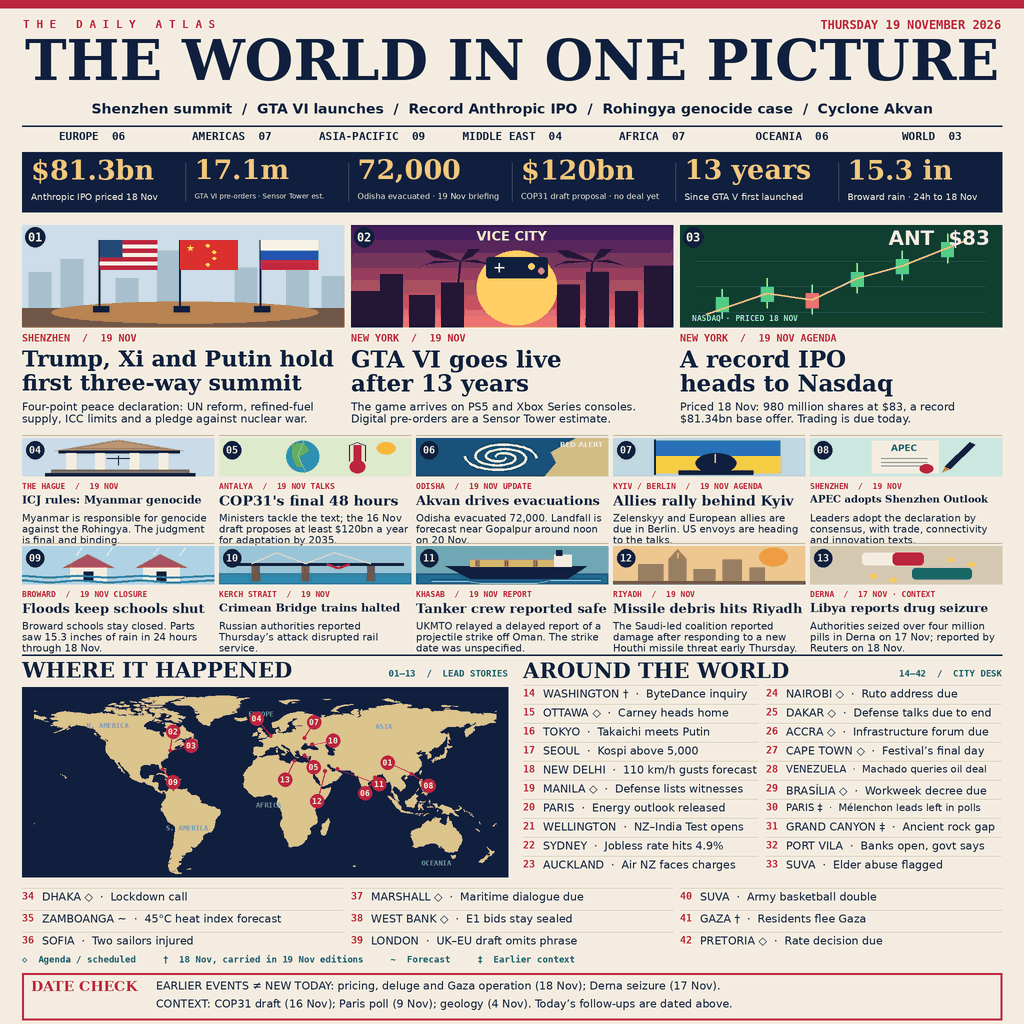
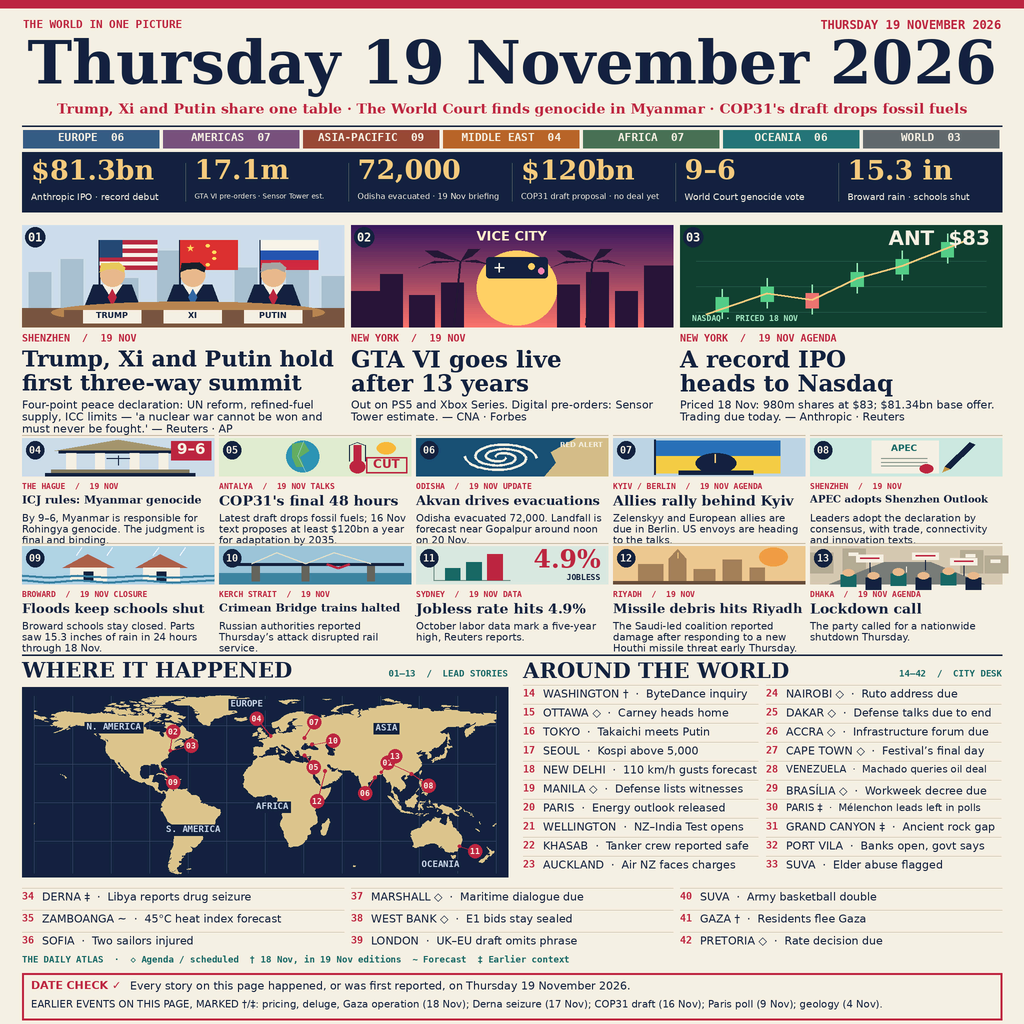
Finish R4 news page with compact RGB render

diff --git a/render.py b/render.py
@@ -109,7 +109,6 @@ def sketch(n, x, y, w, h):
         for a,b in [(2,22),(12,16),(29,25),(42,12),(66,20),(82,10),(93,24)]:
             rect(a,b,7,42-b,"#a8bfce")
         rect(0,39,100,9,"#79553e")
-        oval(9,36,92,46,"#b88550")
         for k,a in enumerate((24,49,74)):
             path([(a,39),(a,7)],INK,2)
             rect(a,7,18,14,"#f7f3e9")
@@ -124,6 +123,21 @@ def sketch(n, x, y, w, h):
             else:
                 rect(a,12,18,4.5,"#2354b0"); rect(a,16.5,18,4.5,"#ce293e")
             rect(a-2,38,5,3,INK)
+        # Draw the seated figures before the tabletop and nameplates.
+        for a,hair,tie in ((28,"#e8c95a",RED),
+                           (53,"#18202c","#3268a4"),
+                           (78,"#a5a5a2",RED)):
+            poly([(a-6,28),(a+6,28),(a+9,40),(a-9,40)],INK)
+            poly([(a-3,28),(a+3,28),(a,35)],PAPER)
+            poly([(a,30),(a+1.4,34),(a,38),(a-1.4,34)],tie)
+            oval(a-3.8,18,a+3.8,29,"#e8b98a")
+            poly([(a-4,22),(a-3.5,18),(a+2,17.5),(a+4,20),(a+3.5,22),
+                  (a+1,20.5),(a-2,21)],hair)
+        oval(9,36,94,46,"#b88550")
+        rect(13,40,77,8,"#79553e")
+        for a,name in ((28,"TRUMP"),(53,"XI"),(78,"PUTIN")):
+            rect(a-9,40,18,6,PAPER)
+            label(x+a*sx,y+41*sy,name,"b",8,INK,"mt")
     elif n == 2:
         for b in range(48):
             t=b/47
@@ -155,6 +169,8 @@ def sketch(n, x, y, w, h):
         for a in (23,38,56,71): rect(a,19,5,21,PAPER)
         path([(50,22),(50,34)],INK,1.2); path([(44,25),(56,25)],INK,1.2)
         rect(15,40,72,4,"#80785c"); rect(12,44,78,4,INK)
+        box(x+w-43,y+3,40,19,RED)
+        label(x+w-23,y+5,"9–6","b",15,PAPER,"mt")
     elif n == 5:
         oval(35,3,52,43,"#2d92b2")
         poly([(38,7),(44,5),(47,16),(42,24),(44,36),(40,36),(38,24)],"#62ad61")
@@ -162,6 +178,8 @@ def sketch(n, x, y, w, h):
         oval(68,28,76,44,RED); rect(70,9,4,26,RED)
         path([(68,29),(68,9),(72,5),(76,9),(76,29)],INK,1)
         oval(82,5,92,20,"#f7b839")
+        pen.rectangle(px(x+w-45,y+19,x+w-4,y+35),outline=RED,width=3)
+        label(x+w-24.5,y+21,"CUT","b",12,RED,"mt")
     elif n == 6:
         poly([(83,0),(100,0),(100,48),(67,48),(73,31),(70,18)],"#d3bd86")
         for phase in (0,math.pi):
@@ -194,12 +212,13 @@ def sketch(n, x, y, w, h):
         path([(17,22),(30,8),(45,22),(60,8),(79,22)],"#e5dfc8",1.5)
         path([(56,23),(62,28),(68,23)],RED,2.7)
     elif n == 11:
-        rect(0,35,100,13,"#246481")
-        poly([(15,25),(89,25),(79,41),(28,41)],INK)
-        rect(28,17,44,9,"#d6b66d"); rect(72,11,9,15,PAPER)
-        rect(73,5,3,7,INK)
-        for a in (31,46,61): rect(a,18,2,7,"#8e7246")
-        path([(8,44),(27,44),(33,47),(63,47),(70,43),(96,43)],"#afd6de",1)
+        box(x,y,w,h,"#d9e7df")
+        path([(9,7),(9,43),(49,43)],"#6e8e84",.8)
+        # These bars are symbolic; their heights do not encode a time series.
+        for a,b in ((15,28),(26,20),(37,10)):
+            rect(a,b,8,43-b,GREEN if a!=37 else RED)
+        label(x+w-7,y+3,"4.9%","h",25,RED,"rt")
+        label(x+w-8,y+h-4,"JOBLESS","m",8,INK,"rb")
     elif n == 12:
         oval(76,2,91,25,"#ef9d42")
         for a,b,ww in [(13,23,13),(29,16,9),(42,29,11),(57,17,10),(71,27,8)]: rect(a,b,ww,44-b,"#a27f59")
@@ -207,10 +226,18 @@ def sketch(n, x, y, w, h):
         path([(33.5,8),(33.5,15)],GOLD,1)
         rect(0,44,100,4,"#654c39")
     elif n == 13:
-        pen.rounded_rectangle(px(x+27*sx,y+8*sy,x+59*sx,y+24*sy),radius=8,fill=PAPER)
-        pen.rounded_rectangle(px(x+43*sx,y+8*sy,x+59*sx,y+24*sy),radius=8,fill=RED)
-        pen.rounded_rectangle(px(x+53*sx,y+28*sy,x+84*sx,y+42*sy),radius=7,fill=GREEN)
-        for a,b in ((31,35),(41,40),(71,14),(82,20)): oval(a,b,a+4,b+6,"#f5d16e")
+        for a,b in ((0,8),(17,3),(78,5),(91,12)):
+            rect(a,b,12,34-b,"#b4aa93")
+            rect(a+3,b+5,5,4,PAPER)
+        poly([(38,20),(63,20),(91,48),(10,48)],"#777b77")
+        path([(50,26),(50,33)],PAPER,1)
+        for a,b in ((20,31),(33,35),(46,30),(59,35),(72,29),(85,35)):
+            rect(a-4,b+5,8,15,INK if a%2 else GREEN)
+            oval(a-3,b-2,a+3,b+7,"#e8b98a")
+        for a,b in ((31,11),(60,8),(80,15)):
+            path([(a,b+5),(a,b+22)],INK,1)
+            rect(a-7,b,14,9,PAPER)
+            path([(a-5,b+4),(a+5,b+4)],RED,1.5)
 
 
 # Coordinates are followed by the callout's offset from the plotted point.
@@ -218,8 +245,8 @@ PLACES = [
     (114.06,22.54,-24,-11), (-74.01,40.71,3,-19), (-74.01,40.71,21,-5),
     (4.30,52.08,-14,-17), (30.71,36.90,9,12), (85.53,19.81,-10,16),
     (30.52,50.45,10,-16), (114.06,22.54,17,12), (-80.14,26.12,11,13),
-    (36.5,45.3,21,-4), (56.25,26.2,42,15), (46.68,24.71,-8,30),
-    (22.64,32.76,-9,19),
+    (36.5,45.3,21,-4), (151.21,-33.87,16,5), (46.68,24.71,-8,30),
+    (90.41,23.81,14,-16),
 ]
 
 
@@ -229,6 +256,11 @@ def world_map(x, y):
 
     def project(lon, lat):
         return (x+12+(lon+180)*scale, y+9+(83-lat)*scale)
+
+    for lon in range(-180,181,30):
+        stroke([project(lon,83),project(lon,-55)],"#3a4a6b",.5)
+    for lat in range(-30,61,30):
+        stroke([project(-180,lat),project(180,lat)],"#3a4a6b",.5)
 
     with urlopen(BASE + "ne_110m_land.geojson", timeout=20) as reply:
         land = reply.read()
@@ -246,9 +278,11 @@ def world_map(x, y):
             for boundary, color in [(outer, 1), *((hole, 0) for hole in holes)]:
                 geometry_pen.polygon([px(*project(*p)) for p in boundary], fill=color)
     canvas.paste("#dcc58d", (0,0), mask)
-    for lon, lat, name in [(-139,62,"N. AMERICA"),(-77,-18,"S. AMERICA"),(-13,71,"EUROPE"),
+    for lon, lat, name in [(-139,62,"N. AMERICA"),(-77,-18,"S. AMERICA"),(-27,80,"EUROPE"),
                            (-7,0,"AFRICA"),(86,61,"ASIA"),(122,-45,"OCEANIA")]:
-        label(*project(lon,lat), name, "m", 7, "#7497b6")
+        a,b = project(lon,lat)
+        box(a-2,b-1,measure(name,"m",9)+4,11,INK)
+        label(a,b,name,"m",9,"#c9d6e8")
     for n, (lon, lat, dx, dy) in enumerate(PLACES, 1):
         a, b = project(lon,lat)
         stroke([(a,b),(a+dx,b+dy)], RED, .8)
@@ -258,12 +292,12 @@ def world_map(x, y):
 
 
 FIGURES = (
-    ("$81.3bn","Anthropic IPO priced 18 Nov"),
+    ("$81.3bn","Anthropic IPO · record debut"),
     ("17.1m","GTA VI pre-orders · Sensor Tower est."),
     ("72,000","Odisha evacuated · 19 Nov briefing"),
     ("$120bn","COP31 draft proposal · no deal yet"),
-    ("13 years","Since GTA V first launched"),
-    ("15.3 in","Broward rain · 24h to 18 Nov"),
+    ("9–6","World Court genocide vote"),
+    ("15.3 in","Broward rain · schools shut"),
 )
 
 
@@ -271,14 +305,16 @@ def front_page():
     rows = items()
     counts = Counter(row[1] for row in rows)
     box(0,0,1024,8,RED)
-    label(23,20,"T H E   D A I L Y   A T L A S","m",11,RED)
+    label(23,20,"THE WORLD IN ONE PICTURE","m",11,RED)
     label(1001,20,"THURSDAY 19 NOVEMBER 2026","m",12,RED,"rt")
-    label(512,38,"THE WORLD IN ONE PICTURE","h",61,INK,"mt",978)
-    label(512,103,"Shenzhen summit  /  GTA VI launches  /  Record Anthropic IPO  /  Rohingya genocide case  /  Cyclone Akvan","b",14,INK,"mt",980)
+    label(512,38,"Thursday 19 November 2026","h",61,INK,"mt",978)
+    label(512,103,"Trump, Xi and Putin share one table · The World Court finds genocide in Myanmar · COP31's draft drops fossil fuels","h",14,RED,"mt",980)
     stroke([(22,126),(1002,126)], INK, 1.6)
     regions = ("Europe","Americas","Asia-Pacific","Middle East","Africa","Oceania","World")
+    region_colors = ("#355b83","#76517d","#984735","#b76428","#477154","#237576","#61696d")
     for i, region in enumerate(regions):
-        label(92+i*140,132,f"{region.upper()}  {counts[region]:02}","m",11,INK,"mt")
+        box(23+i*140,130,136,18,region_colors[i])
+        label(91+i*140,133,f"{region.upper()}  {counts[region]:02}","m",11,PAPER,"mt",130)
     box(22,152,980,60,INK)
     for i, (amount, caption) in enumerate(FIGURES):
         x = 22+i*980/6
@@ -304,7 +340,7 @@ def front_page():
             headline(x,y+h+23,title,w-1)
         else:
             label(x,y+h+19,title,"h",14,limit=w-1)
-        copy(x,y+h+(75 if hero else 38),detail,11 if hero else 10,w-1,12 if hero else 11)
+        copy(x,y+h+(73 if hero else 38),detail,11 if hero else 10,w-1,12 if hero else 11)
 
     stroke([(22,655),(1002,655)], INK, 1.6)
     label(22,662,"WHERE IT HAPPENED","h",21)
@@ -323,26 +359,19 @@ def front_page():
         stroke([(x,y-3),(x+w,y-3)], RULE, .5)
         label(x,y+1,f"{n:02}","m",10,RED)
         label(x+20,y+1,f"{place.upper()}{marker}  ·  {title}","s",11,limit=w-21)
-    label(22,955,"◇  Agenda / scheduled     †  18 Nov, carried in 19 Nov editions     ~  Forecast     ‡  Earlier context","m",9,GREEN)
+    label(22,955,"THE DAILY ATLAS  ·  ◇ Agenda / scheduled  † 18 Nov, in 19 Nov editions  ~ Forecast  ‡ Earlier context","m",9,GREEN)
     pen.rectangle(px(22,973,1002,1020),outline=RED,width=4)
-    label(31,981,"DATE CHECK","h",14,RED)
-    label(156,981,"EARLIER EVENTS ≠ NEW TODAY: pricing, deluge and Gaza operation (18 Nov); Derna seizure (17 Nov).","s",11,INK,limit=833)
-    label(156,999,"CONTEXT: COP31 draft (16 Nov); Paris poll (9 Nov); geology (4 Nov). Today’s follow-ups are dated above.","s",11,INK,limit=833)
+    label(31,981,"DATE CHECK ✓","b",11,RED)
+    label(130,981,"Every story on this page happened, or was first reported, on Thursday 19 November 2026.","s",11,INK,limit=861)
+    label(31,1000,"EARLIER EVENTS ON THIS PAGE, MARKED †/‡: pricing, deluge, Gaza operation (18 Nov); Derna seizure (17 Nov); COP31 draft (16 Nov); Paris poll (9 Nov); geology (4 Nov).","s",10,INK,limit=961)
 
     destination = ROOT / "assets" / "entry.png"
-    # Keep text antialiasing while reserving the small scenes' accent colors.
+    # Round channel values by at most two levels to improve PNG compression.
+    # The RGB output retains the antialiasing and avoids palette dithering.
     reduced = canvas.resize((1024,1024), Image.Resampling.LANCZOS)
-    palette = reduced.quantize(colors=224,method=Image.Quantize.MEDIANCUT)
-    accents = [PAPER,INK,RED,GREEN,GOLD,"#53cd86","#94e6b3","#103f30",
-               "#62ad61","#2d92b2","#ffcf65","#dc302e","#2354b0",
-               "#d3bd86","#2871b8","#f4cd43","#318bb0","#77b978",
-               "#f7b839","#dcc58d","#ed7370","#d6b66d","#edc78f",
-               "#ef9d42","#261437","#241735","#a3e7c2","#ffdb5c",
-               "#cdddea","#cadbe9","#cae8df","#e5dfc8"]
-    palette.putpalette(palette.getpalette()[:224*3]+[
-        int(color[i:i+2],16) for color in accents for i in (1,3,5)])
-    reduced.quantize(palette=palette,dither=Image.Dither.NONE).save(
-        destination, format="PNG", optimize=True)
+    channel_levels = [min(255, ((value + 2) // 4) * 4) for value in range(256)]
+    reduced = reduced.point(channel_levels * 3)
+    reduced.save(destination, format="PNG", optimize=True)
     raw = destination.read_bytes()
     assert len(raw) <= 1_048_576
     print(dict(counts), len(raw), sha256(raw).hexdigest())

diff --git a/SOURCES.md b/SOURCES.md
@@ -1,22 +1,22 @@
 # Source ledger · Thursday 19 November 2026
 
-Dates are local to the event or publication unless specified. The edition includes reported developments, a clearly marked calendar, and older context. Regional counts assign each item once, according to its beat. The map marks the location relevant to each lead, including the exchange for the IPO, the Crimean Bridge and the waters off Khasab for the delayed tanker report. Cards 10 and 11 promote former briefs 31 and 30; the geology and Paris polling context now appear as briefs 31 and 30.
+Dates follow the local time of the event or publication unless stated otherwise. The edition marks scheduled events and earlier context, and each story counts toward one region. The map locates the 13 leads, placing the IPO at its exchange and the bridge story at the Kerch Strait. Sydney and Dhaka appear as leads 11 and 13. The delayed Khasab report and Derna seizure remain in the city desk at 22 and 34. Story IDs run from 01 to 42.
 
 | ID | Region | Place | Date and status | Headline | Edition summary | Evidence |
 | --- | --- | --- | --- | --- | --- | --- |
-| 01 | Asia-Pacific | Shenzhen | 19 Nov | Trump, Xi and Putin hold first three-way summit | Four-point peace declaration: UN reform, refined-fuel supply, ICC limits and a pledge against nuclear war. | [AP](https://apnews.com/article/3d0f8ed366d6084e1cfe12a4d8020c55), [Yonhap](https://en.yna.co.kr/view/AEN20261119001354315), [Guardian](https://www.theguardian.com/world/live/2026/nov/19/apec-summit-trump-xi-putin-meeting-shenzhen-china), [The Times · declaration text](https://www.thetimes.com/world/asia/article/trump-xi-putin-summit-shenzhen-latest-news-ddskr7pcx), [AnewZ · Kremlin publication](https://anewz.tv/world/world-news/26925/trump-putin-and-xi-discuss-ukraine-nuclear-arms-at-apec/news) |
-| 02 | Americas | New York | 19 Nov | GTA VI goes live after 13 years | The game arrives on PS5 and Xbox Series consoles. Digital pre-orders are a Sensor Tower estimate. | [CNA](https://www.channelnewsasia.com/living/grand-theft-auto-goes-live-13-years-6562531), [Forbes](https://www.forbes.com.au/news/uncategorized/gta-vi-has-already-banked-1-5-billion-and-it-isnt-out-yet/), [Axis](https://axis-intelligence.com/gta-6-sales-tracker/) |
-| 03 | Americas | New York | 19 Nov agenda | A record IPO heads to Nasdaq | Priced 18 Nov: 980 million shares at $83, a record $81.34bn base offer. Trading is due today. | [Anthropic](https://www.anthropic.com/news/anthropic-prices-initial-public-offering), [Reuters pricing](https://www.reuters.com/business/anthropic-clinches-biggest-ever-ipo-with-81-billion-offering-2026-11-18/), [Reuters Thursday](https://www.investing.com/news/stock-market-news/nasdaq-futures-jump-as-anthropics-record-ipo-pricing-fuels-hopes-for-strong-debut-5038156) |
-| 04 | Europe | The Hague | 19 Nov | ICJ rules: Myanmar genocide | Myanmar is responsible for genocide against the Rohingya. The judgment is final and binding. | [Reuters during sitting](https://new.streetinsider.com/Reuters/World%2BCourt%2Bfinds%2BMyanmar%2Bforces%2Bkilled%2Bthousands%2Bof%2BRohingya%2C%2Bruling%2Bongoing/27372130.html), [AP](https://apnews.com/article/30df77b12bf3f911f1100e77ebe3973a), [case docket](https://icj-web.leman.un-icc.cloud/case/178) |
-| 05 | World | Antalya | 19 Nov talks | COP31's final 48 hours | Ministers tackle the text; the 16 Nov draft proposes at least $120bn a year for adaptation by 2035. | [Guardian live](https://www.theguardian.com/environment/live/2026/nov/19/cop31-climate-turkey-live-news-updates-), [UNFCCC proposal](https://docs.unfccc.int/documents/10000295/files/en/GGA_DT_SB651.pdf), [Anadolu](https://www.aa.com.tr/en/turkiye/cop31-draft-decision-calls-for-tripling-adaptation-finance-to-120b-speeding-shift-away-from-fossil-fuels/4126715) |
+| 01 | Asia-Pacific | Shenzhen | 19 Nov | Trump, Xi and Putin hold first three-way summit | Four-point peace declaration: UN reform, refined-fuel supply, ICC limits — 'a nuclear war cannot be won and must never be fought.' — Reuters · AP | [AP](https://apnews.com/article/3d0f8ed366d6084e1cfe12a4d8020c55), [Yonhap](https://en.yna.co.kr/view/AEN20261119001354315), [Guardian](https://www.theguardian.com/world/live/2026/nov/19/apec-summit-trump-xi-putin-meeting-shenzhen-china), [The Times · declaration text](https://www.thetimes.com/world/asia/article/trump-xi-putin-summit-shenzhen-latest-news-ddskr7pcx), [AnewZ · Kremlin publication](https://anewz.tv/world/world-news/26925/trump-putin-and-xi-discuss-ukraine-nuclear-arms-at-apec/news) |
+| 02 | Americas | New York | 19 Nov | GTA VI goes live after 13 years | Out on PS5 and Xbox Series. Digital pre-orders: Sensor Tower estimate. — CNA · Forbes | [CNA](https://www.channelnewsasia.com/living/grand-theft-auto-goes-live-13-years-6562531), [Forbes](https://www.forbes.com.au/news/uncategorized/gta-vi-has-already-banked-1-5-billion-and-it-isnt-out-yet/), [Axis](https://axis-intelligence.com/gta-6-sales-tracker/) |
+| 03 | Americas | New York | 19 Nov agenda | A record IPO heads to Nasdaq | Priced 18 Nov: 980m shares at $83; $81.34bn base offer. Trading due today. — Anthropic · Reuters | [Anthropic](https://www.anthropic.com/news/anthropic-prices-initial-public-offering), [Reuters pricing](https://www.reuters.com/business/anthropic-clinches-biggest-ever-ipo-with-81-billion-offering-2026-11-18/), [Reuters Thursday](https://www.investing.com/news/stock-market-news/nasdaq-futures-jump-as-anthropics-record-ipo-pricing-fuels-hopes-for-strong-debut-5038156) |
+| 04 | Europe | The Hague | 19 Nov | ICJ rules: Myanmar genocide | By 9–6, Myanmar is responsible for Rohingya genocide. The judgment is final and binding. | [Reuters during sitting](https://new.streetinsider.com/Reuters/World%2BCourt%2Bfinds%2BMyanmar%2Bforces%2Bkilled%2Bthousands%2Bof%2BRohingya%2C%2Bruling%2Bongoing/27372130.html), [AP](https://apnews.com/article/30df77b12bf3f911f1100e77ebe3973a), [case docket](https://icj-web.leman.un-icc.cloud/case/178) |
+| 05 | World | Antalya | 19 Nov talks | COP31's final 48 hours | Latest draft drops fossil fuels; 16 Nov text proposes at least $120bn a year for adaptation by 2035. | [Guardian live](https://www.theguardian.com/environment/live/2026/nov/19/cop31-climate-turkey-live-news-updates-), [UNFCCC proposal](https://docs.unfccc.int/documents/10000295/files/en/GGA_DT_SB651.pdf), [Anadolu](https://www.aa.com.tr/en/turkiye/cop31-draft-decision-calls-for-tripling-adaptation-finance-to-120b-speeding-shift-away-from-fossil-fuels/4126715) |
 | 06 | Asia-Pacific | Odisha | 19 Nov update | Akvan drives evacuations | Odisha evacuated 72,000. Landfall is forecast near Gopalpur around noon on 20 Nov. | [Akashvani](https://newsonair.gov.in/odisha-evacuates-72000-people-as-severe-cyclone-akvan-approaches-coast/), [Odisha TV](https://odishatv.in/odisha/cyclone-akvan-update-72000-evacuated-and-7900-shelters-identified-says-odisha-chief-secretary-12822572), [IMD](https://mausam.imd.gov.in/backend/assets/cyclone_pdf/29__National_Bulletin_No_29-19Nov2026_0530IST.pdf) |
 | 07 | Europe | Kyiv / Berlin | 19 Nov agenda | Allies rally behind Kyiv | Zelenskyy and European allies are due in Berlin. US envoys are heading to the talks. | [Reuters](https://www.reuters.com/world/china/ukraines-european-allies-meet-berlin-show-support-2026-11-19/), [Ukrainian National News](https://unn.ua/en/news/witkoff-and-kushner-traveled-to-berlin-for-talks-with-zelenskyy-and-european-leaders) |
 | 08 | Asia-Pacific | Shenzhen | 19 Nov | APEC adopts Shenzhen Outlook | Leaders adopt the declaration by consensus, with trade, connectivity and innovation texts. | [APEC declaration](https://www.apec.org/meeting-papers/leaders-declarations/2026/2026-apec-leaders--shenzhen-outlook), [China MFA](https://pg.china-embassy.gov.cn/eng/fyrth/202611/t20261119_12062986.htm) |
 | 09 | Americas | Broward | 19 Nov closure | Floods keep schools shut | Broward schools stay closed. Parts saw 15.3 inches of rain in 24 hours through 18 Nov. | [School district](https://www.browardschools.com/p/~board/district-news-news-room-135038/post/all-schools-and-district-offices-to-remain-closed-on-thursday-november-19), [AP](https://apnews.com/article/a2eb0ab46c06ff3e6809c395466bf949), [5AM Hollywood](https://5amhollywoodfl.com/local-news/editions/11-19-2026) |
 | 10 | Europe | Kerch Strait | 19 Nov | Crimean Bridge trains halted | Russian authorities reported Thursday’s attack disrupted rail service. | [Reuters](https://www.reuters.com/world/china/third-attack-week-suspends-traffic-over-crimean-bridge-russian-official-says-2026-11-19/) |
-| 11 | Middle East | Khasab | 19 Nov report | Tanker crew reported safe | UKMTO relayed a delayed report of a projectile strike off Oman. The strike date was unspecified. | [Arab News](https://www.arabnews.pk/middle-east/tanker-struck-by-projectile-near-omans-khasab-as-attacks-in-hormuz-continue-3007452) |
+| 11 | Oceania | Sydney | 19 Nov data | Jobless rate hits 4.9% | October labor data mark a five-year high, Reuters reports. | [ABS](https://www.abs.gov.au/media-centre/media-releases/unemployment-rate-rises-49), [Reuters](https://www.investing.com/news/economy-news/australias-jobless-rate-hits-5year-high-markets-ramp-up-ratecut-bets-for-2027-5037860) |
 | 12 | Middle East | Riyadh | 19 Nov | Missile debris hits Riyadh | The Saudi-led coalition reported damage after responding to a new Houthi missile threat early Thursday. | [AP](https://apnews.com/article/e72472c557057943cab32010666b29bf), [Reuters](https://www.internazionale.it/ultime-notizie-reuters/2026/11/19/houthi-missile-threat-towards-riyadh-causes-damage-saudi-led-coalition-says) |
-| 13 | Africa | Derna | 17 Nov · context | Libya reports drug seizure | Authorities seized over four million pills in Derna on 17 Nov; reported by Reuters on 18 Nov. | [Reuters](https://www.reuters.com/world/africa/cocaine-millions-pills-seized-eastern-libya-officials-say-2026-11-18/) |
+| 13 | Asia-Pacific | Dhaka | 19 Nov agenda | Lockdown call | The party called for a nationwide shutdown Thursday. | [Reuters via Straits Times, 18 Nov](https://www.straitstimes.com/asia/south-asia/bangladesh-deploys-paramilitary-as-unrest-grows-over-hasinas-return) |
 | 14 | Americas | Washington | 18 Nov · report | ByteDance inquiry | US lawmakers asked about reported Microsoft–ByteDance talks. | [Reuters via CNA, 19 Nov Singapore](https://www.channelnewsasia.com/world/us-microsoft-bytedance-openai-access-6563751) |
 | 15 | Americas | Ottawa | 19 Nov agenda | Carney heads home | Schedule includes meetings with the leaders of Australia, New Zealand and Singapore in Shenzhen before his return to Ottawa. | [Apna News, itinerary](https://apnanews.ca/carney-itinerary-thursday-november-19-2026-shenzhen/) |
 | 16 | Asia-Pacific | Tokyo | 19 Nov | Takaichi meets Putin | Japan’s prime minister said the two agreed to keep communicating after their meeting in Shenzhen. | [AP](https://apnews.com/article/bdc0faac8244ea5ca145380636927f9b), [Reuters](https://www.reuters.com/world/china/japan-says-pm-takaichi-putin-held-talks-apec-summit-china-2026-11-19/) |
@@ -25,7 +25,7 @@ Dates are local to the event or publication unless specified. The edition includ
 | 19 | Asia-Pacific | Manila | 19 Nov agenda | Defense lists witnesses | Defense evidence continues in the Philippine vice president’s impeachment trial. | [GMA](https://www.gmanetwork.com/news/topstories/nation/1010023/live-updates-sara-duterte-impeachment-trial-november-19-2026/story/) |
 | 20 | World | Paris | 19 Nov release | Energy outlook released | The agency examines how the duration of energy supply disruption shapes its impact. | [IEA](https://www.iea.org/news/as-an-unprecedented-shock-reshapes-the-energy-world-its-duration-will-determine-the-scale-of-the-change) |
 | 21 | Oceania | Wellington | 19 Nov | NZ–India Test opens | The teams open their Test series at Basin Reserve. | [RNZ](https://www.rnz.co.nz/news/sport/2678394/live-cricket-black-caps-v-india-first-test) |
-| 22 | Oceania | Sydney | 19 Nov data | Jobless rate hits 4.9% | October labor data mark a five-year high, Reuters reports. | [ABS](https://www.abs.gov.au/media-centre/media-releases/unemployment-rate-rises-49), [Reuters](https://www.investing.com/news/economy-news/australias-jobless-rate-hits-5year-high-markets-ramp-up-ratecut-bets-for-2027-5037860) |
+| 22 | Middle East | Khasab | 19 Nov report | Tanker crew reported safe | UKMTO relayed a delayed report of a projectile strike off Oman. The strike date was unspecified. | [Arab News](https://www.arabnews.pk/middle-east/tanker-struck-by-projectile-near-omans-khasab-as-attacks-in-hormuz-continue-3007452) |
 | 23 | Oceania | Auckland | 19 Nov | Air NZ faces charges | The Commerce Commission alleges misleading statements about compensation rights. | [RNZ](https://www.rnz.co.nz/news/business/2680040/commerce-commission-files-charges-against-air-new-zealand) |
 | 24 | Africa | Nairobi | 19 Nov agenda | Ruto address due | Kenya’s parliament scheduled the State of the Nation address. | [People Daily](https://peopledaily.digital/inside-politics/ruto-to-deliver-2026-state-of-the-nation-address-to-parliament-on-november-19) |
 | 25 | Africa | Dakar | 19 Nov agenda | Defense talks due to end | Senegal’s four-day meeting of regional defense chiefs was scheduled through Thursday. | [African Press Agency, 18 Nov](https://apanews.net/senegal-hosts-4-day-ecowas-defence-chiefs-meeting/) |
@@ -37,7 +37,7 @@ Dates are local to the event or publication unless specified. The edition includ
 | 31 | World | Grand Canyon | 4 Nov · context | Ancient rock gap | A Nature paper links missing rock layers in the Great Unconformity to ancient mantle flow. | [Nature, 4 Nov](https://doi.org/10.1038/s41586-026-11156-5) |
 | 32 | Oceania | Port Vila | 19 Nov | Banks open, govt says | The government dismissed banking-collapse rumors after US technology outages. | [RNZ](https://www.rnz.co.nz/news/pacific/2679330/vanuatu-dismisses-global-banking-collapse-rumours-after-us-tech-outages) |
 | 33 | Oceania | Suva | 19 Nov report | Elder abuse flagged | The human rights commission raised complaints of neglect and exploitation. | [FBC](https://www.fbcnews.com.fj/news/fhradc-concerned-with-rising-elder-abuse/) |
-| 34 | Asia-Pacific | Dhaka | 19 Nov agenda | Lockdown call | The party called for a nationwide shutdown Thursday. | [Reuters via Straits Times, 18 Nov](https://www.straitstimes.com/asia/south-asia/bangladesh-deploys-paramilitary-as-unrest-grows-over-hasinas-return) |
+| 34 | Africa | Derna | 17 Nov · context | Libya reports drug seizure | Authorities seized over four million pills in Derna on 17 Nov; reported by Reuters on 18 Nov. | [Reuters](https://www.reuters.com/world/africa/cocaine-millions-pills-seized-eastern-libya-officials-say-2026-11-18/) |
 | 35 | Asia-Pacific | Zamboanga | 19 Nov forecast | 45°C heat index forecast | PAGASA’s figure is for apparent temperature. | [GMA, 18 Nov](https://www.gmanetwork.com/news/weather/content/1009977/heat-index-5-areas-under-danger-heat-index-level-thursday-nov-19-2026/story/) |
 | 36 | Europe | Sofia | 19 Nov update | Two sailors injured | Manila said all 19 crew were safe after a 17 Nov tanker attack, with two minor injuries. | [GMA](https://www.gmanetwork.com/news/pinoyabroad/dispatch/1010025/2-filipinos-seafarers-hurt-in-lpg-tanker-attack-off-bulgaria-dmw/story/) |
 | 37 | Africa | Marshall | 19 Nov agenda | Maritime dialogue due | The Maritime Training Institute was due to host the one-day event. | [New Era Inquirer, 18 Nov](https://www.newerainquirer.com/article/8e62400b-ca57-4381-b60c-51750bbe71cb), [New Republic](https://newrepubliclib.com/high-level-maritime-dialogue-ahead-of-unsc-presidency-expected/) |
@@ -47,7 +47,7 @@ Dates are local to the event or publication unless specified. The edition includ
 | 41 | Middle East | Gaza | 18 Nov · report | Residents flee Gaza | Reports describe displacement after Wednesday’s ground operation. | [BBC](https://www.bbc.com/news/articles/cw8r7510degno), [Reuters via GMA, 19 Nov Manila](https://www.gmanetwork.com/news/topstories/world/1010022/israel-launches-ground-operation-in-central-gaza-dozens-flee/story/) |
 | 42 | Africa | Pretoria | 19 Nov agenda | Rate decision due | The Reserve Bank’s final scheduled policy decision of 2026. | [Resolve Communications, 16 Nov](https://resolvecommunications.co.za/resolve-rundown-16-to-20-november-2026/) |
 
-The six figures at the top use items 02 (17.1m estimated pre-orders and 13 years since GTA V), 03 ($81.3bn priced 18 Nov), 05 ($120bn draft proposal), 06 (**72,000 evacuated**, Thursday’s official briefing) and 09 (15.3 inches through 18 Nov). The image uses only **72,000** for Akvan evacuations. Odisha’s **204,070** identified for possible evacuation was a different 17–18 Nov planning count, not actual evacuations; this planning figure is retained here for provenance only, off the image. [Business Standard](https://www.business-standard.com/india-news/cyclone-akvan-strengthens-orange-alert-in-andhra-odisha-and-telangana-126111800424_1.html), [Down To Earth](https://www.downtoearth.org.in/climate-change/daily-weather-tracker-severe-cyclonic-storm-akvan-approaches-andhra-pradesh-coast), [Akashvani](https://newsonair.gov.in/odisha-evacuates-72000-people-as-severe-cyclone-akvan-approaches-coast/).
+The six figures at the top use items 02 (17.1m estimated pre-orders), 03 ($81.3bn priced 18 Nov), 04 (9–6 genocide finding), 05 ($120bn draft proposal), 06 (**72,000 evacuated**, Thursday’s official briefing) and 09 (15.3 inches through 18 Nov). The image uses only **72,000** for Akvan evacuations. Odisha’s **204,070** identified for possible evacuation was a different 17–18 Nov planning count, not actual evacuations; this planning figure is retained here for provenance only, off the image. [Business Standard](https://www.business-standard.com/india-news/cyclone-akvan-strengthens-orange-alert-in-andhra-odisha-and-telangana-126111800424_1.html), [Down To Earth](https://www.downtoearth.org.in/climate-change/daily-weather-tracker-severe-cyclonic-storm-akvan-approaches-andhra-pradesh-coast), [Akashvani](https://newsonair.gov.in/odisha-evacuates-72000-people-as-severe-cyclone-akvan-approaches-coast/).
 
 Reuters initially reported $81.31bn. The issuer’s stated 980 million shares at $83 give $81.34bn for the gross base offering, including shares sold by existing holders. Both round to $81.3bn.
 
@@ -55,4 +55,6 @@ Rockstar’s launch date is 19 Nov by local time. The Sensor Tower 18 Nov model 
 
 The map uses the public-domain [Natural Earth land layer](https://www.naturalearthdata.com/about/terms-of-use/). Callouts are offset where needed, with leader lines to the locations.
 
-R3 date-check audit: earlier events are explicitly distinguished from Thursday follow-ups, rather than excluded as whole stories. Anthropic pricing (18 Nov; row 03), Florida rainfall (through 18 Nov; row 09), the Gaza ground operation (18 Nov; row 41), Derna seizure (17 Nov, reported 18 Nov; row 13), COP31 draft (16 Nov; row 05), the Paris poll publication (9 Nov; row 30), and geology publication (4 Nov; row 31) use the evidence linked in those rows. No extra event or outcome is asserted by the illustrations. The ship scene illustrates row 11’s delayed report; the strike date is unspecified. The summit headline uses the first three-way meeting framing in the linked AP / Guardian coverage; the four-point declaration remains in the summary. The GTA skyline is an editorial Vice City scene, not a photograph or a claim about a real location.
+R4 date-check audit: earlier events are explicitly distinguished from Thursday follow-ups, rather than excluded as whole stories. Anthropic pricing (18 Nov; row 03), Florida rainfall (through 18 Nov; row 09), the Gaza ground operation (18 Nov; row 41), Derna seizure (17 Nov, reported 18 Nov; row 34), COP31 draft (16 Nov; row 05), the Paris poll publication (9 Nov; row 30), and geology publication (4 Nov; row 31) use the evidence linked in those rows. The positive date-check line describes the edition’s Thursday focus; marked context and scheduled events remain exceptions, not new outcomes. The summit headline uses the first three-way meeting framing in the linked AP / Guardian coverage; the four-point declaration remains in the summary. The GTA skyline is an editorial Vice City scene, not a photograph or a claim about a real location. Sydney’s bars are a symbolic chart, not a historical series; Dhaka’s crowd illustrates a shutdown call, not a claim about turnout.
+
+On 20 Nov 2026, the R4 source review confirmed the **9–6** genocide finding in row 04’s AP report, Reuters’ [court video transcript](https://www.breakingviews.com/video/watch/idRW972019112026RP1/) and operative paragraph (1) of the [judgment summary](https://www.refworld.org/sites/default/files/2026-11/178-20261119-sum-01-00-en.pdf). The CUT stamp and deck follow the Guardian’s 19 Nov report that the latest draft dropped fossil fuels. The $120bn figure comes from the separate 16 Nov adaptation proposal, which had yet to be agreed.
